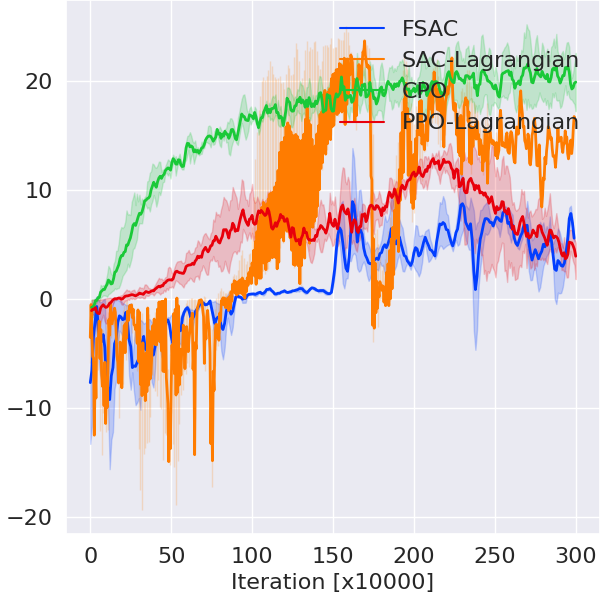
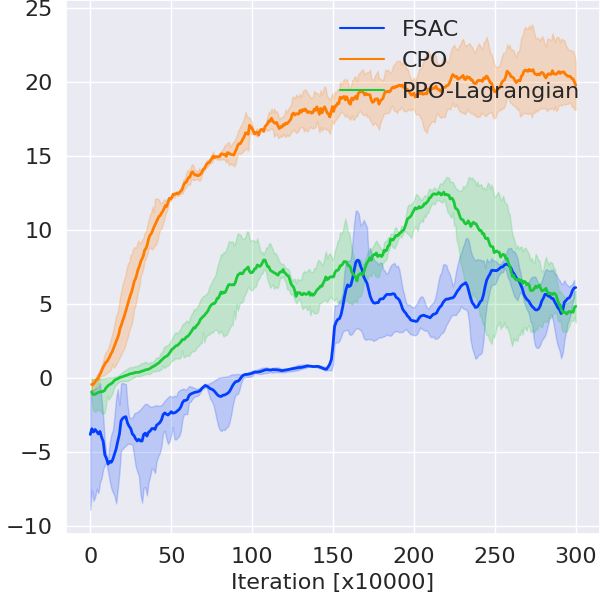
update lineplot

diff --git a/data_process/lineplot_mujoco.py b/data_process/lineplot_mujoco.py
@@ -17,6 +17,7 @@ SMOOTHFACTOR = 0.3
 SMOOTHFACTOR2 = 3
 DIV_LINE_WIDTH = 50
 txt_store_alg_list = ['CPO', 'PPO-Lagrangian']
+base_dict = dict(HalfCheetah=150)
 
 def load_from_event():
     tag2plot = ['episode_return']
@@ -59,9 +60,9 @@ def load_from_tf1_event(eval_dir, tag2plot):
 
 def help_func():
     tag2plot = ['episode_return']
-    alg_list = ['FSAC', 'CPO', 'PPO-Lagrangian'] # 'SAC','SAC-Lagrangian',
-    lbs = ['FSAC', 'CPO', 'PPO-Lagrangian'] # 'SAC','SAC-Lagrangian',
-    task = ['PointButton']
+    alg_list = ['CPO','PPO-Lagrangian'] # 'FSAC', 'CPO', 'SAC','SAC-Lagrangian',
+    lbs = ['CPO','PPO-Lagrangian'] # 'FSAC', 'CPO', 'SAC','SAC-Lagrangian',
+    task = ['HalfCheetah']
     #todo: CarGoal: sac
     #todo: CarButton: sac choose better fac
     # todo: CarPush: ???
@@ -74,10 +75,11 @@ def plot_eval_results_of_all_alg_n_runs(dirs_dict_for_plot=None):
     tag2plot, alg_list, task_list, lbs, palette, _, dir_str = help_func()
     df_dict = {}
     df_in_one_run_of_one_alg = {}
+    final_results = {}
     for task in task_list:
         df_list = []
         for alg in alg_list:
-
+            final_results.update({alg:[]})
             data2plot_dir = dir_str.format(alg, task)
             data2plot_dirs_list = dirs_dict_for_plot[alg] if dirs_dict_for_plot is not None else os.listdir(data2plot_dir)
             for num_run, dir in enumerate(data2plot_dirs_list):
@@ -86,6 +88,7 @@ def plot_eval_results_of_all_alg_n_runs(dirs_dict_for_plot=None):
                         eval_dir = data2plot_dir + '/' + dir
                         print(eval_dir)
                         df_in_one_run_of_one_alg = get_datasets(eval_dir, tag2plot, alg=alg, num_run=num_run)
+                        tag = tag2plot[0]
                     else:
                         eval_dir = data2plot_dir + '/' + dir + '/logs/evaluator'
                         print(eval_dir)
@@ -128,25 +131,28 @@ def plot_eval_results_of_all_alg_n_runs(dirs_dict_for_plot=None):
                             smoothed_x = np.convolve(x, y, 'same') / np.convolve(z, y, 'same')
                             df_in_one_run_of_one_alg[tag] = smoothed_x
                     df_list.append(df_in_one_run_of_one_alg)
+                    lendf = len(df_in_one_run_of_one_alg[tag])
+                    final_results[alg].append(df_in_one_run_of_one_alg[tag][lendf-1]) # TODO: consider conti if exists
+        dump_results(final_results)
         total_dataframe = df_list[0].append(df_list[1:], ignore_index=True) if len(df_list) > 1 else df_list[0]
         figsize = (6,6)
         axes_size = [0.11, 0.11, 0.89, 0.89] #if env == 'path_tracking_env' else [0.095, 0.11, 0.905, 0.89]
         fontsize = 16
         f1 = plt.figure(1, figsize=figsize)
         ax1 = f1.add_axes(axes_size)
-        sns.lineplot(x="iteration", y=tag, hue="algorithm",
+        sns.lineplot(x="iteration", y=tag2plot[0], hue="algorithm",
                      data=total_dataframe, linewidth=2, palette=palette
                      )
-        base = 40 if task == 'CarPush' else 100
+        base = base_dict[task]
         handles, labels = ax1.get_legend_handles_labels()
         labels = lbs
         if tag == 'episode_cost':
-            basescore = sns.lineplot(x=[0., 300.], y=[base, base], linewidth=2, color='black', linestyle='--')
+            basescore = sns.lineplot(x=[0., 100.], y=[base, base], linewidth=2, color='black', linestyle='--')
             ax1.legend(handles=handles + [basescore.lines[-1]], labels=labels + ['Constraint'], loc='upper right',
                        frameon=False, fontsize=fontsize)
         else:
             ax1.legend(handles=handles , labels=labels , loc='upper right', frameon=False, fontsize=fontsize)
-        print(ax1.lines[0].get_data())
+        # print(ax1.lines[0].get_data())
         ax1.set_ylabel('')
         ax1.set_xlabel("Iteration [x10000]", fontsize=fontsize)
         plt.yticks(fontsize=fontsize)
@@ -169,7 +175,6 @@ def plot_eval_results_of_all_alg_n_runs(dirs_dict_for_plot=None):
         #     results2print.update({alg: [mean, 2 * std]})
         #
         # print(results2print)
-
 
 def get_datasets(logdir, tag2plot, alg, condition=None, smooth=SMOOTHFACTOR2, num_run=0):
     """
@@ -222,60 +227,9 @@ def get_datasets(logdir, tag2plot, alg, condition=None, smooth=SMOOTHFACTOR2, nu
 
     return data.loc[:, slice_list]
 
-def load_from_txt(logdir='../results/CPO/PointGoal/pg1', tag=['episode_cost']):
-    data = get_datasets(logdir, tag, alg='CPO')
-    a = 1
-# def get_all_datasets(all_logdirs, legend=None, select=None, exclude=None):
-#     """
-#     For every entry in all_logdirs,
-#         1) check if the entry is a real directory and if it is,
-#            pull data from it;
-#
-#         2) if not, check to see if the entry is a prefix for a
-#            real directory, and pull data from that.
-#     """
-#     logdirs = []
-#     for logdir in all_logdirs:
-#         if osp.isdir(logdir) and logdir[-1]=='/':
-#             logdirs += [logdir]
-#         else:
-#             basedir = osp.dirname(logdir)
-#             fulldir = lambda x : osp.join(basedir, x)
-#             prefix = logdir.split('/')[-1]
-#             listdir= os.listdir(basedir)
-#             logdirs += sorted([fulldir(x) for x in listdir if prefix in x])
-#
-#     """
-#     Enforce selection rules, which check logdirs for certain substrings.
-#     Makes it easier to look at graphs from particular ablations, if you
-#     launch many jobs at once with similar names.
-#     """
-#     if select is not None:
-#         logdirs = [log for log in logdirs if all(x in log for x in select)]
-#     if exclude is not None:
-#         logdirs = [log for log in logdirs if all(not(x in log) for x in exclude)]
-#
-#     # Verify logdirs
-#     print('Plotting from...\n' + '='*DIV_LINE_WIDTH + '\n')
-#     for logdir in logdirs:
-#         print(logdir)
-#     print('\n' + '='*DIV_LINE_WIDTH)
-#
-#     # Make sure the legend is compatible with the logdirs
-#     assert not(legend) or (len(legend) == len(logdirs)), \
-#         "Must give a legend title for each set of experiments."
-#
-#     # Load data from logdirs
-#     data = []
-#     if legend:
-#         for log, leg in zip(logdirs, legend):
-#             data += get_datasets(log, leg)
-#     else:
-#         for log in logdirs:
-#             data += get_datasets(log)
-#     return data
-
-
+def dump_results(final_results_dict):
+    for alg in final_results_dict.keys():
+        print('alg: {}, mean {}, std {}'.format(alg, np.mean(final_results_dict[alg]), np.std(final_results_dict[alg])))
 
 if __name__ == '__main__':
     # env = 'inverted_pendulum_env'  # inverted_pendulum_env path_tracking_env

diff --git a/train_scripts/train_script4fsac.py b/train_scripts/train_script4fsac.py
@@ -94,8 +94,8 @@ def built_FSAC_parser():
     parser.add_argument('--buffer_type', type=str, default='cost')
     parser.add_argument('--optimizer_type', type=str, default='OffPolicyAsyncWithCost') # SingleProcessOffPolicy OffPolicyAsyncWithCost
     parser.add_argument('--off_policy', type=str, default=True)
-    parser.add_argument('--random_seed', type=int, default=2)
-    parser.add_argument('--penalty_start', type=int, default=300000)
+    parser.add_argument('--random_seed', type=int, default=4)
+    parser.add_argument('--penalty_start', type=int, default=400000)
     parser.add_argument('--demo', type=bool, default=False)
 
     # env
@@ -112,7 +112,7 @@ def built_FSAC_parser():
     parser.add_argument('--lam_gradient_clip_norm', type=float, default=3.)
     parser.add_argument('--num_batch_reuse', type=int, default=1)
     parser.add_argument('--cost_lim', type=float, default=30.0)
-    parser.add_argument('--mlp_lam', default=False) # True: fsac, false: sac-lagrangian todo: add to new algo
+    parser.add_argument('--mlp_lam', default=True) # True: fsac, false: sac-lagrangian todo: add to new algo
     parser.add_argument('--double_QC', type=bool, default=False)
 
     # worker
@@ -123,7 +123,7 @@ def built_FSAC_parser():
     # buffer
     parser.add_argument('--max_buffer_size', type=int, default=50000)
     parser.add_argument('--replay_starts', type=int, default=3000)
-    parser.add_argument('--replay_batch_size', type=int, default=1024)
+    parser.add_argument('--replay_batch_size', type=int, default=2048)
     parser.add_argument('--replay_alpha', type=float, default=0.6)
     parser.add_argument('--replay_beta', type=float, default=0.4)
     parser.add_argument('--buffer_log_interval', type=int, default=40000)
@@ -143,26 +143,26 @@ def built_FSAC_parser():
     parser.add_argument('--value_num_hidden_layers', type=int, default=2)
     parser.add_argument('--value_num_hidden_units', type=int, default=256)
     parser.add_argument('--value_hidden_activation', type=str, default='elu')
-    parser.add_argument('--value_lr_schedule', type=list, default=[8e-5, 800000, 1e-6])
-    parser.add_argument('--cost_value_lr_schedule', type=list, default=[8e-5, 800000, 1e-6])
+    parser.add_argument('--value_lr_schedule', type=list, default=[8e-5, 1000000, 1e-6])
+    parser.add_argument('--cost_value_lr_schedule', type=list, default=[8e-5, 1000000, 1e-6])
     parser.add_argument('--policy_model_cls', type=str, default='MLP')
     parser.add_argument('--policy_num_hidden_layers', type=int, default=2)
     parser.add_argument('--policy_num_hidden_units', type=int, default=256)
     parser.add_argument('--policy_hidden_activation', type=str, default='elu')
     parser.add_argument('--policy_out_activation', type=str, default='linear')
-    parser.add_argument('--policy_lr_schedule', type=list, default=[3e-5, 400000, 1e-6])
-    parser.add_argument('--lam_lr_schedule', type=list, default=[5e-6, 200000, 1e-6])
+    parser.add_argument('--policy_lr_schedule', type=list, default=[3e-5, 500000, 1e-6])
+    parser.add_argument('--lam_lr_schedule', type=list, default=[5e-6, 100000, 1e-6])
     parser.add_argument('--alpha', default='auto')  # 'auto' 0.02
     alpha = parser.parse_args().alpha
     if alpha == 'auto':
         parser.add_argument('--target_entropy', type=float, default=-6)
-    parser.add_argument('--alpha_lr_schedule', type=list, default=[5e-5, 400000, 1e-6])
+    parser.add_argument('--alpha_lr_schedule', type=list, default=[5e-5, 500000, 1e-6])
     parser.add_argument('--policy_only', type=bool, default=False)
     parser.add_argument('--double_Q', type=bool, default=True)
     parser.add_argument('--target', type=bool, default=True)
     parser.add_argument('--tau', type=float, default=0.005)
     parser.add_argument('--delay_update', type=int, default=2)
-    parser.add_argument('--dual_ascent_interval', type=int, default=4)
+    parser.add_argument('--dual_ascent_interval', type=int, default=6)
     parser.add_argument('--deterministic_policy', type=bool, default=False)
     parser.add_argument('--action_range', type=float, default=1.0)
     parser.add_argument('--mu_bias', type=float, default=0.0)
@@ -194,7 +194,7 @@ def built_FSAC_parser():
     time_now = datetime.datetime.now().strftime("%Y-%m-%d-%H-%M-%S")
     env_id = parser.parse_args().env_id
     task = env_id.split('-')[1] if env_id.startswith('Safexp') else env_id.split('-')[0]
-    results_dir = '../results/SAC-Lagrangian/{task}/{experiment}-{time}'.format(task=task[:-1],
+    results_dir = '../results/FSAC/{task}/{experiment}-{time}'.format(task=task[:-1],
                                                                       experiment=task,
                                                                       time=time_now)
     parser.add_argument('--result_dir', type=str, default=results_dir)

diff --git a/train_scripts/test_script4fsac.py b/train_scripts/test_script4fsac.py
@@ -68,12 +68,12 @@ def built_FSAC_parser():
     mode = parser.parse_args().mode
 
     if mode == 'testing':
-        test_dir = '../results/FSAC/v/v3-2021-05-10-17-02-05'
+        test_dir = '../results/FSAC/HalfCheeta/HalfCheetah-2021-05-11-22-44-37'
         params = json.loads(open(test_dir + '/config.json').read())
         time_now = datetime.datetime.now().strftime("%Y-%m-%d-%H-%M-%S")
         test_log_dir = params['log_dir'] + '/tester/test-{}'.format(time_now)
         params.update(dict(test_dir=test_dir,
-                           test_iter_list=[800000],
+                           test_iter_list=[1000000],
                            test_log_dir=test_log_dir,
                            num_eval_episode=5,
                            num_eval_agent=1,
